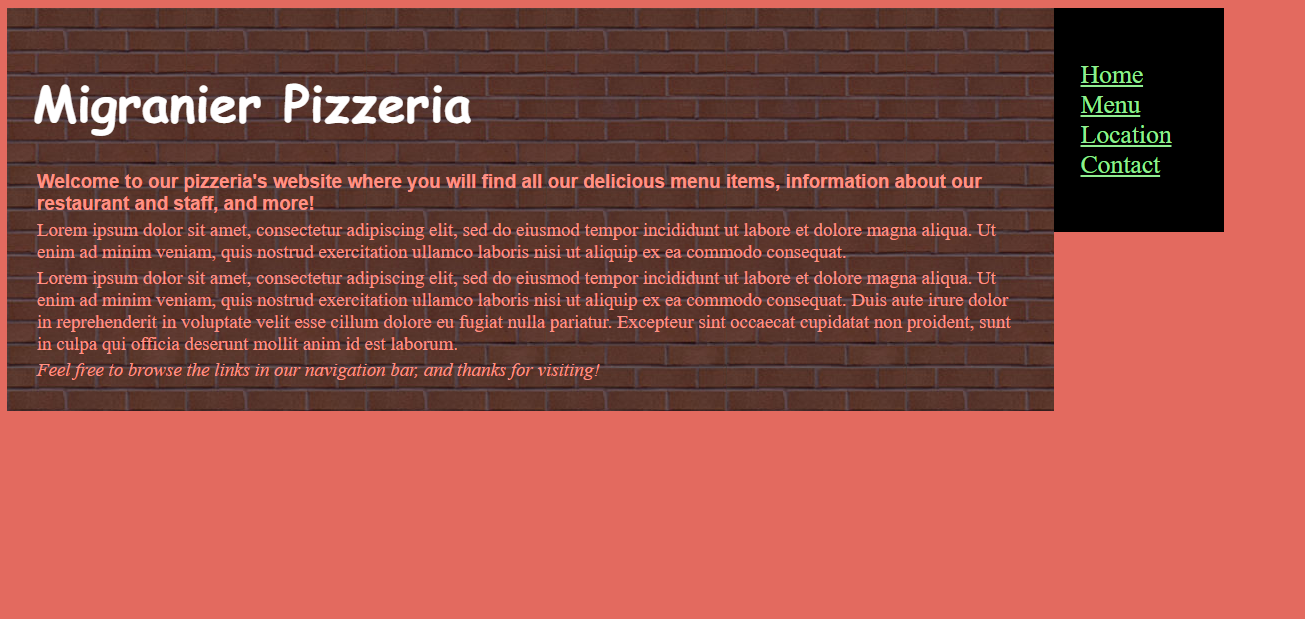
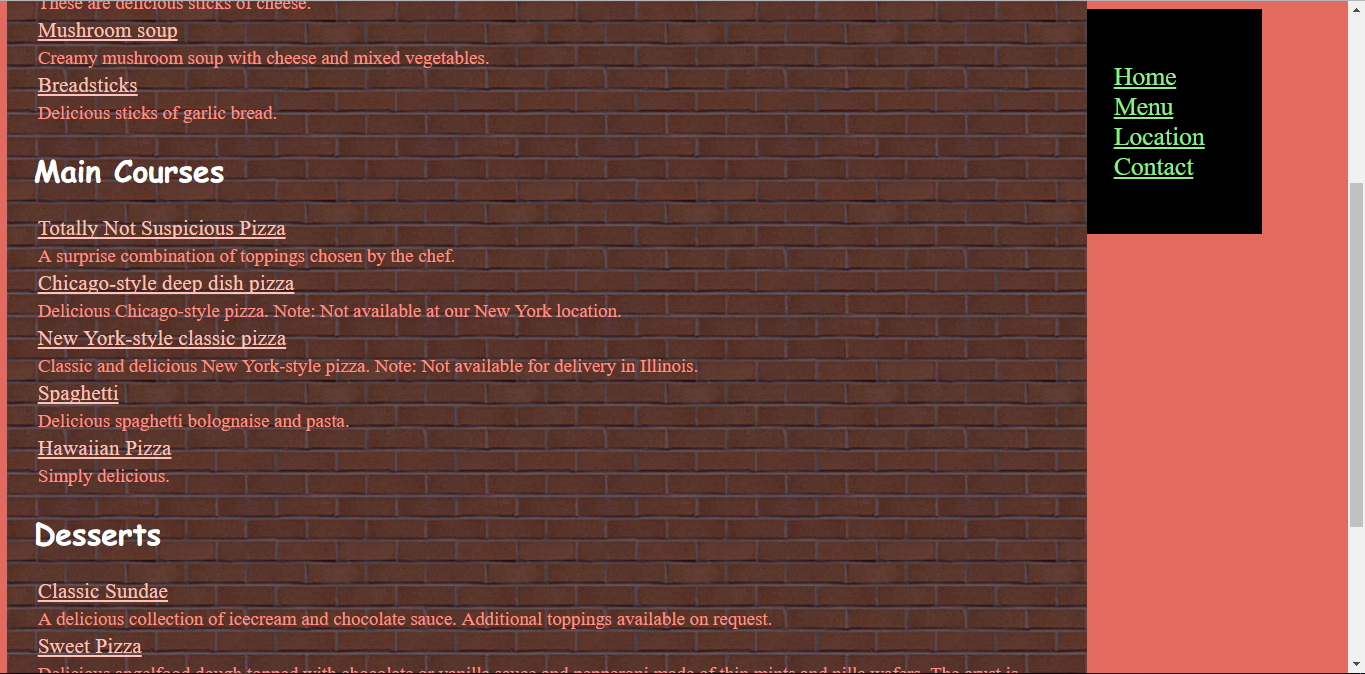
created pizzeria.html page and submitted content

diff --git a/pizzeria.html b/pizzeria.html
@@ -1,0 +1,83 @@
+<!DOCTYPE html>
+<html>
+  <head>
+    <link href="css/stylesheet.css" rel="stylesheet" type="text/css">
+    <title>Erica's Portfolio</title>
+  </head>
+  <body>
+
+    <div id="left-bar">
+      <img src="img/logo.jpg" alt="A picture of the jellyfish logo" width="150px">
+      <a href="index.html"><img src="img/icon.png" width="80px" alt="A drawing for Erica logo"></a>
+      <h4>Personal Info</h4>
+      <ul>
+        <li><a href="about.html">About Me</a></li>
+        <li><a href="background.html">Background</a></li>
+        <li><a href="interests.html">Interests</a></li>
+      </ul>
+
+      <h4>Recent Projects</h4>
+      <ul>
+        <li><a href="drew-wiki.html">Drewpedia!</a></li>
+        <li><a href="animal-shelter.html">Animal Shelter</a></li>
+        <li><a href="pizzeria.html">Migranier Pizzeria</a></li>
+        <li><a href="resort.html">Fjordington Resort</a></li>
+        <li><a href="capetown.html">Cape Town</a></li>
+      </ul>
+
+      <h4>Miscellaneous</h4>
+      <ul>
+        <li><a href="index.html">Home</a></li>
+        <li><a href="contact.html">Contact</a></li>
+        <li><a href="additional.html">Additional</a></li>
+        <li><a href="legal.html">Legal</a></li>
+      </ul>
+
+    </div>
+
+    <div id="content">
+      <div id="top-banner">
+        <br><br><br><br>
+        <h1>Erica W. <span style="color:#AECDD5">|</span><div id="designer"> Web designer and developer</div></h1>
+      </div>
+      <div class="introduction">
+        <h2>Migranier Pizzeria Webpage Project</h2>
+        <p><span style="font-weight:bold;font-size:16px">F</span>or this pair project, Erica and her partner Dylan S. created a website for a fictional pizzeria restaurant named Migranier. This site contained multiple webpages with content. Once the basic site template was created, this project was all about experimenting with CSS techniques as well as working with branching in Github.</p>
+        <p>Several different branches were created in order to experiment with the layout of the content already created within the HTML file pages. The first branch was entitled "side-menu", and this one was stylized so that the navigation menu bar appeared to the right of the page content.</p>
+        <p>The first version with the side menu looked as follows:</p>
+        <center><img src="img/pizzeria.png" alt="Screen capture of pizzeria website with side menu"></center>
+        <p>The second version has the menu at the bottom, and we were going to move it to a navigation bar at the top but have not yet done so within the CSS. This simple version so far looks like this:</p>
+        <center><img src="img/pizzeria2.png" alt="Screen capture of pizzeria website with bottom menu"></center>
+        <p>The page was created in steps with the following tools:</p>
+        <ul>
+          <li>HTML</li>
+          <li>CSS</li>
+          <li>Markdown for the README file</li>
+        </ul>
+        <p>The <a href="https://github.com/ericaw21/pizzeria">Github repository</a> for this project is available here: <a href="https://github.com/ericaw21/pizzeria">https://github.com/ericaw21/pizzeria</a>.</p>
+        <p>If there are any issues or concerns with this project, please <a href="mailto:ericaw21@gmail.com">email me</a>.
+      </div>
+
+      <h3>Previous Project Quick Links</h3>
+      <div id="quick-links" class="row">
+        <div class="column"><h4>Animal Shelter Webpage</h4>
+          <p><a href="animal-shelter.html">
+            <figure>
+              <img src="img/animal-shelter.png" alt="A preview picture of the Animal Shelter webpage"></a></p>
+              <figcaption>Animal Shelter thumbnail</figcaption>
+            </figure>
+          <p>As a pair project along with a partner, I created a web page for an animal shelter, while learning about media queries and utilizing cascading style effects and classes. <a href="animal-shelter.html">Find out more on the Animal Shelter project page</a>.</p>
+        </div>
+        <div class="column"><h4>Drewpedia Webpage</h4>
+          <p><a href="drew-wiki.html">
+            <figure>
+              <img src="img/drewpedia.png" alt="A preview picture of Drewpedia webpage"></a></p>
+              <figcaption>Drewpedia webpage thumbnail</figcaption>
+            </figure>
+          <p>Along with my partner, we created a Wikipedia look-alike webpage titled "Drewpedia" in order to learn how to design and code a similarly-styled page from scratch. <a href="drew-wiki.html">Find out more on the Drewpedia project page</a>.</p>
+        </div>
+      </div>
+
+    </div>
+  </body>
+</html>
